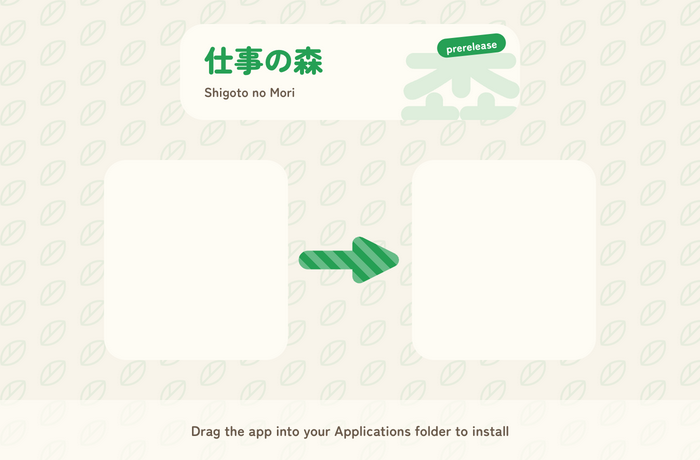
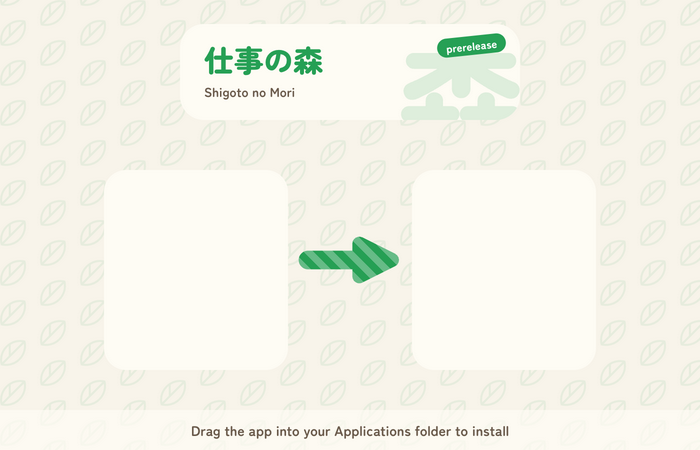
Fit the dmg art to the window Finder actually shows
Finder measures a window from the outside, title bar included, and
ds-store budgets 22 points for one, which is the height it was before
Big Sur. Today's is taller, so a 460 point canvas lost its bottom 10
points and the hint band was cut in half. The art is painted at 450 now,
measured with a ruler background against a real mounted image.

The band also shrank from 60 points to 40, and the tiles moved down 10
so the icon and the name Finder paints under it sit with equal air above
and below rather than 36 and 16.

diff --git a/scripts/dmg-background.html b/scripts/dmg-background.html
@@ -158,11 +158,14 @@
          underneath still lands on the card rather than on bare canvas. */
       .tile {
         position: absolute;
-        /* Sized off the icon, not off 128: a wider margin either side,
-           and a deeper one below for the name Finder paints there. */
+        /* Sized off the icon, not off 128. Finder paints the item's
+           name below the icon, so the tile holds both: 26 of air, the
+           icon, its name (a 6 gap plus a 14 line), 26 of air. Centering
+           the icon instead would leave the pair sitting low in the
+           tile, which is what it looks like from a foot away. */
         width: calc((var(--icon) + 56) * 1px);
         height: calc((var(--icon) + 72) * 1px);
-        top: calc((var(--icon-y) - var(--icon) / 2 - 36) * 1px);
+        top: calc((var(--icon-y) - var(--icon) / 2 - 26) * 1px);
         transform: translateX(-50%);
         border-radius: 22px;
         background-color: var(--card);
@@ -208,7 +211,7 @@
         right: 0;
         bottom: 0;
         overflow: hidden;
-        height: 60px;
+        height: 40px;
         display: flex;
         align-items: center;
         justify-content: center;
